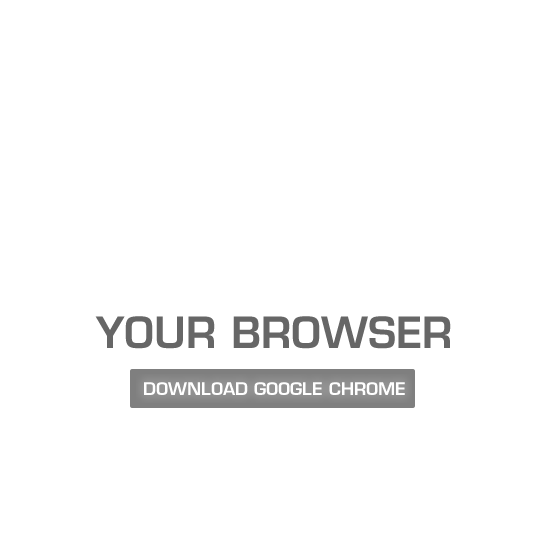
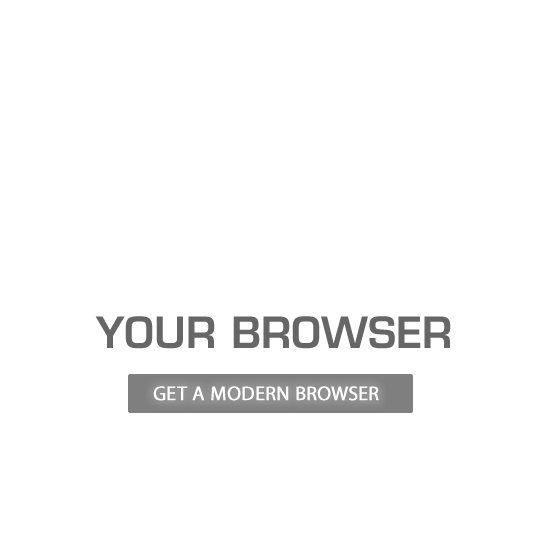
Remove the suggestion about Google Chrome

Changed region(s): [[0.237, 0.6815, 0.7704, 0.7704]]

diff --git a/app/public/old.html b/app/public/old.html
@@ -23,9 +23,22 @@
        s.parentNode.insertBefore(t, s);
        })();
      </script>
+     <script type="text/javascript">
+       var _gauges = _gauges || [];
+       (function() {
+         var t   = document.createElement('script');
+         t.type  = 'text/javascript';
+         t.async = true;
+         t.id    = 'gauges-tracker';
+         t.setAttribute('data-site-id', '4ea02b69613f5d77bb000004');
+         t.src = '//secure.gaug.es/track.js';
+         var s = document.getElementsByTagName('script')[0];
+         s.parentNode.insertBefore(t, s);
+       })();
+     </script>
    </head>
    <body class="old">
-     <a href="http://www.google.com/chrome" title="Download Google Chrome" class="notice"></a>
+     <a href="http://www.updatebrowser.net/" title="Download a modern browser" class="notice"></a>
      <div class="rays"></div>
    </body>
  </html>

diff --git a/app/public/down.html b/app/public/down.html
@@ -22,6 +22,19 @@
        s.parentNode.insertBefore(t, s);
        })();
      </script>
+     <script type="text/javascript">
+       var _gauges = _gauges || [];
+       (function() {
+         var t   = document.createElement('script');
+         t.type  = 'text/javascript';
+         t.async = true;
+         t.id    = 'gauges-tracker';
+         t.setAttribute('data-site-id', '4ea02b69613f5d77bb000004');
+         t.src = '//secure.gaug.es/track.js';
+         var s = document.getElementsByTagName('script')[0];
+         s.parentNode.insertBefore(t, s);
+       })();
+     </script>
    </head>
    <body class="down">
      <div class="notice"></div>
